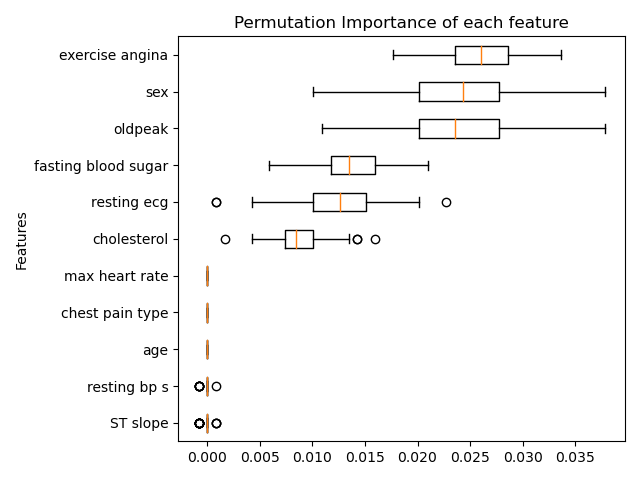
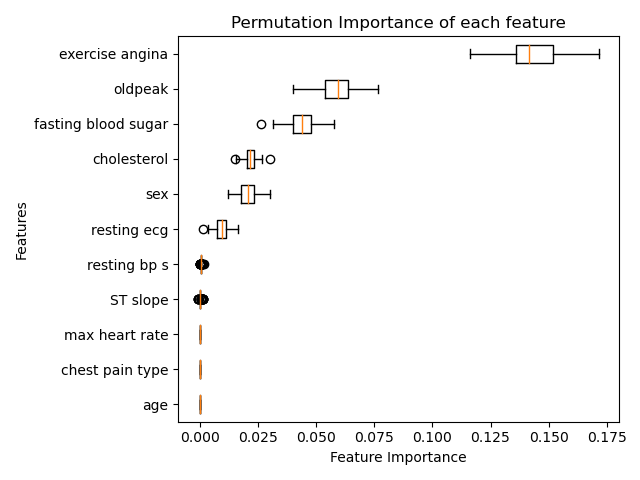
added stats test (dunn) and box plots

diff --git a/Heart_Health_Classification.py b/Heart_Health_Classification.py
@@ -14,6 +14,8 @@ from scipy import interpolate
 import matplotlib.pyplot as plt
 from itertools import groupby
 import pandas as pd
+from scipy import stats
+import scikit_posthocs as sp #pip install scikit-posthocs
 
 from sklearn.utils import resample
 from scipy.integrate import simps
@@ -39,11 +41,11 @@ from sklearn.utils import shuffle
 # https://ieee-dataport.org/open-access/heart-disease-dataset-comprehensive#files
 df=pd.read_csv('heart_statlog_cleveland_hungary_final.csv')
 
-y=np.array(df['target'])
-X=np.array(df.drop(['target'],axis=1))
+y_csv=np.array(df['target'])
+X_csv=np.array(df.drop(['target'],axis=1))
 
 #%% ensure class sizes are equal to prevent classification bias
-unique, counts = np.unique(y, return_counts=True)
+unique, counts = np.unique(y_csv, return_counts=True)
 print ('unbalance classes',np.asarray((unique, counts)).T) # class size not equal
 
 '''
@@ -55,11 +57,11 @@ the majority class. In this example we are downsampling classes to match
 '''
 
 #split data sets
-X_normal=X[y==0]
-y_normal=y[y==0]
+X_normal=X_csv[y_csv==0]
+y_normal=y_csv[y_csv==0]
 
-X_disease=X[y==1]
-y_disease=y[y==1][:len(y_normal)]
+X_disease=X_csv[y_csv==1]
+y_disease=y_csv[y_csv==1][:len(y_normal)]
 
 # downsample eyes_closed data set
 X_disease_ds=resample(X_disease, 
@@ -67,8 +69,10 @@ X_disease_ds=resample(X_disease,
                         n_samples=len(y_normal),     # to match minority class
                         random_state=123) # reproducible results
 
+X=np.vstack([X_normal,X_disease_ds])
+y=list(y_normal) +list(y_normal+1)
 
-X_train, X_test, y_train, y_test = train_test_split(X, y, test_size=0.2)
+X_train, X_test, y_train, y_test = train_test_split(X, y, test_size=0.2,random_state=42)
 
 # scale features
 min_max_scaler = preprocessing.MinMaxScaler()
@@ -79,7 +83,7 @@ X_train,y_train=shuffle(X_featScaled,y_train, random_state=273377)
 
 #%% Tune Hyper parameters & train models
 models_tune={}
-score='accuracy'
+score='roc_auc'
 #% kNN    
 models_tune['kNN']=tune_hyper_parms('kNN',X_train,y_train, score)
 
@@ -98,15 +102,15 @@ models_tune['ExtraTree']=tune_hyper_parms('ExtraTree',X_train,y_train,score)
 
 # train classifiers using optimal hyperparameters
 classifiers = {    
-                    'Bagging': BaggingClassifier().set_params(**models_tune['Bagging'].best_params_),
+                    'Bagging': BaggingClassifier(random_state=1).set_params(**models_tune['Bagging'].best_params_),
  
-                    'ExtraTree': ExtraTreesClassifier().set_params(**models_tune['ExtraTree'].best_params_),
+                    'ExtraTree': ExtraTreesClassifier(random_state=1).set_params(**models_tune['ExtraTree'].best_params_),
                     
                     'kNN':KNeighborsClassifier().set_params(**models_tune['kNN'].best_params_),
                     
-                    'SVM':SVC().set_params(**models_tune['SVM'].best_params_),                                 
+                    'SVM':SVC(random_state=1).set_params(**models_tune['SVM'].best_params_),                                 
                     
-                    'RandomForests': RandomForestClassifier().set_params(**models_tune['RandomForests'].best_params_),
+                    'RandomForests': RandomForestClassifier(random_state=1).set_params(**models_tune['RandomForests'].best_params_),
 
             }  
 
@@ -126,7 +130,15 @@ for idx,key in enumerate(keys):
    
     
 results=sorted(list(zip(np.mean(scores,axis=1),keys,np.std(scores,axis=1),params, scores) ),reverse=True)
-    
+
+df_scores=pd.DataFrame(scores, index=keys)
+bplot=df_scores.T.boxplot(grid=False, rot=0)
+bplot.set_ylabel('Accuracy')
+bplot.set_title('10-fold Cross Validation Accuracy')
+bplot.figure.savefig('Permutation Feature Importance.png')
+
+
+
 print('Classifiers- 10 fold cross validation- repeat 5x')
 for i in results:
     i=list(i)
@@ -135,6 +147,38 @@ for i in results:
 print(' ')
 
 print('best model to use:',results[0][1])
+
+#%% statistically best classifier
+
+# normality={}
+# kw={}
+# kw_all={}
+# dunn={}
+# p_value={}
+heatmap_args = {'linewidths': 0.25, 'linecolor': '0.5', 'clip_on': False, 'square': True, 'cbar_ax_bbox': [0.80, 0.35, 0.04, 0.3]}
+
+#classifier Selection for First online Session
+fig, ax = plt.subplots()
+   
+# normality- https://docs.scipy.org/doc/scipy/reference/generated/scipy.stats.shapiro.html
+temp_data=df_scores.T
+p_all=[]
+for key in temp_data:
+    stat,p=stats.shapiro( temp_data[key])
+    p_all.append(p)
+
+#Kruskal-Wallis test - https://docs.scipy.org/doc/scipy/reference/generated/scipy.stats.kruskal.html
+samples = [condition for condition in temp_data.T.values.tolist()]
+
+#%post hoc- https://scikit-posthocs.readthedocs.io/en/latest/generated/scikit_posthocs.posthoc_dunn/
+dunn=sp.posthoc_dunn(temp_data.T.values.tolist(),p_adjust = 'bonferroni').set_index(temp_data.columns).T.set_index(temp_data.columns)
+t=sp.sign_plot(dunn,ax=ax, **heatmap_args)
+
+
+title="Dunn Pairwise Classifier Comparison "
+fig.suptitle(title)  
+fig.tight_layout()
+fig.savefig('Dunn_Pairwise_Classifier_Comparison.png')
 
 
 #%% Performance Results
@@ -153,6 +197,7 @@ print(classification_report(y_test,y_predict))
 #ROC of Best Classifier
 disp=metrics.plot_roc_curve(clf, X_test, y_test) 
 disp.figure_.suptitle("ROC curve comparison")
+disp.figure_.savefig('ROC.png')
 
 #%%Permutation-based feature importance
 result = permutation_importance(clf, X, y, scoring=score,n_repeats=100, random_state=0, n_jobs=-1)
@@ -168,7 +213,7 @@ ax.set_title("Permutation Importance of each feature")
 ax.set_ylabel("Features")
 fig.tight_layout()
 plt.show()
-
+plt.savefig('Permutation Feature Importance.png')
 
 
 
